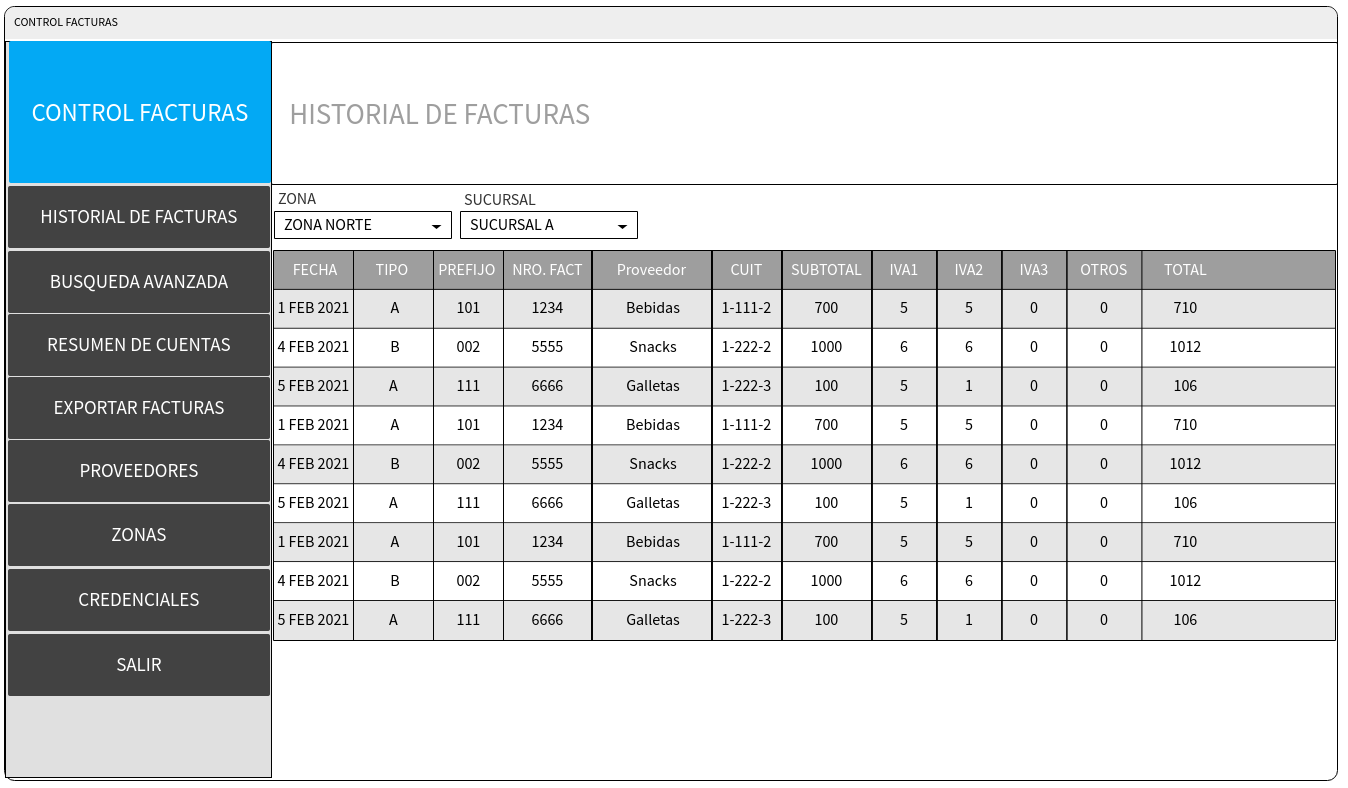
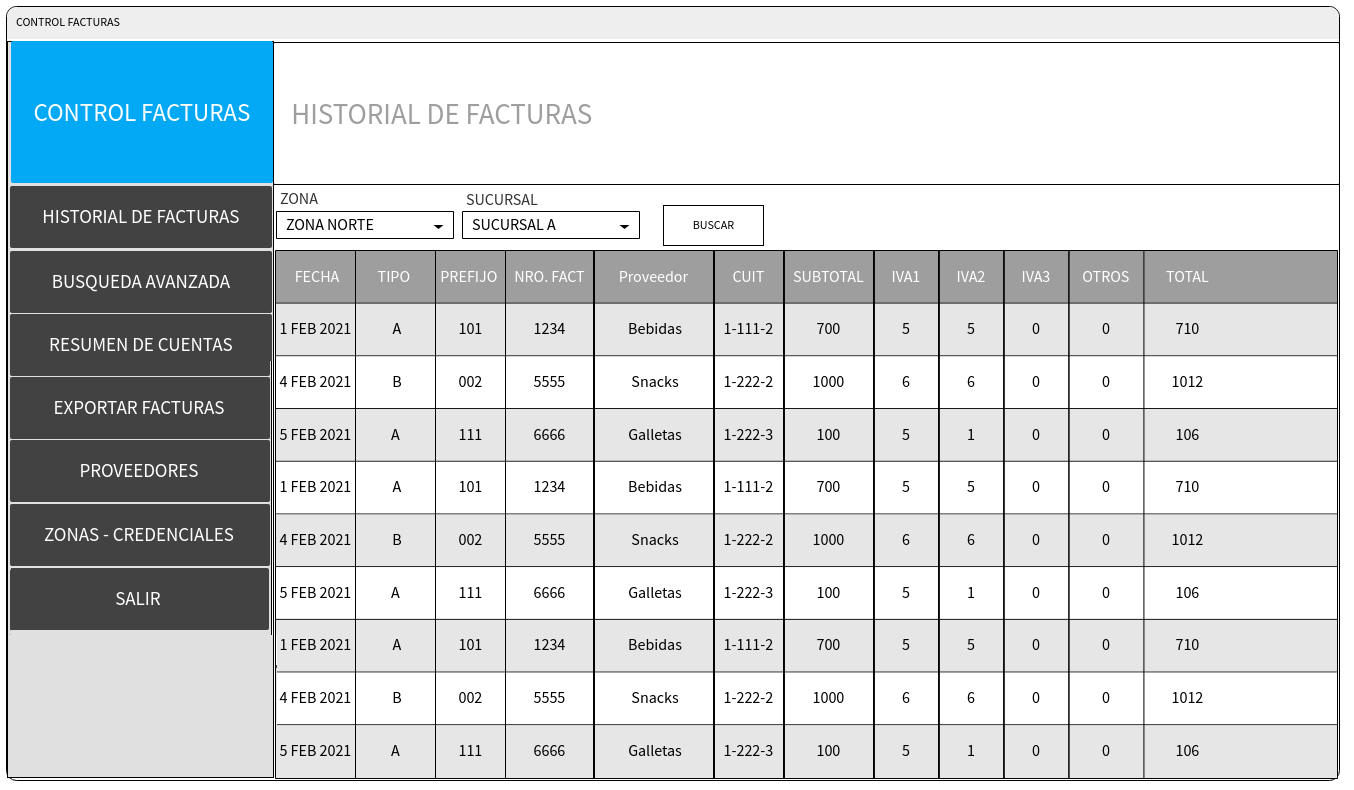
nuevas vistas generadas para la oficina principal, en descripcion

diff --git a/README.md b/README.md
@@ -24,3 +24,19 @@ Lista de opciones para Oficina Principal:
 -	Proveedor: lista los proveedores, modificacion y actualizacion de cada uno de estos
 -	Zonas: lista grupal de cada uno de los locales, estos se dividen en Zonas(tambien llamado secciones) según posicion geografica para un mejor manejo general de los locales. Modificacion, actualizacion de cada uno de estos, cada local se etiqueta en una determinada zona. 
 -	Credenciales: se utiliza para asignar un  ID y clave de acceso para cada local, tambien para crear usuarios para la vista de Oficina Principal y asi realizar tareas de rutina.
+
+
+VISTA BUSQUEDA AVANZADA (OFICINA PRINCIPAL)
+ ![](Descripcion/VPbusquedaA.png)
+
+VISTA RESUMEN CUENTAS(OFICINA PRINCIPAL)
+ ![](Descripcion/VPcuentas.png)
+
+VISTA EXPORTACION(OFICINA PRINCIPAL)
+ ![](Descripcion/VPexportacion.png)
+
+VISTA PROVEEDORES(OFICINA PRINCIPAL)
+ ![](Descripcion/VPproveedor.png)
+
+VISTA ZONAS-CREDENCIALES(OFICINA PRINCIPAL)
+ ![](Descripcion/VPzonas.png)
